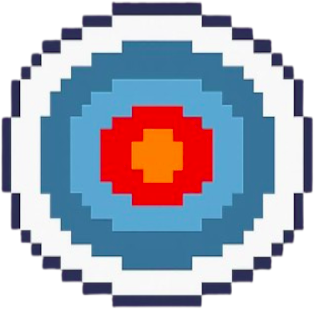
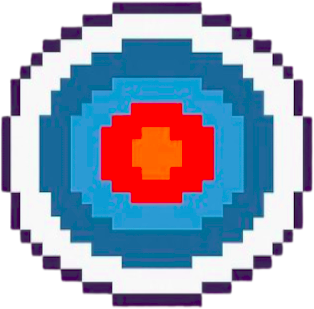
Resized picture

diff --git a/src/com/codeforall/online/bullseye/playables/Target.java b/src/com/codeforall/online/bullseye/playables/Target.java
@@ -12,8 +12,8 @@ public class Target extends Entity implements Collidables {
 
         // Create and draw the target picture, resize and recenter
         this.picture = new Picture(x, y, "resources/target309x314.png");
-        picture.grow(-180, -180);
-        picture.translate(-180, -180);
+        picture.grow(-118, -110);
+        picture.translate(-118, -110);
         picture.draw();
 
         this.speed = 1;
@@ -45,18 +45,18 @@ public class Target extends Entity implements Collidables {
         picture.delete();
     }
 
-
     // Updates target position: moves in the current direction and checks arena bounds
     public void update(Arena arena) {
-            moveInDirection(currDirection, arena);
+        moveInDirection(currDirection, arena);
+
     }
 
     // Moves the target UP or DOWN. If it hits top/bottom arena borders, reverses direction.
     public void moveInDirection(Direction dir, Arena arena) {
 
-        if (picture.getY() <= arena.getTop()) {
+        if (picture.getY() <= arena.getTopBush()) {
             currDirection = Direction.DOWN;
-        } else if (picture.getMaxY() >= arena.getBottom()) {
+        } else if (picture.getMaxY() >= arena.getBottomBush()) {
             currDirection = Direction.UP;
         } else {
             currDirection = dir;
